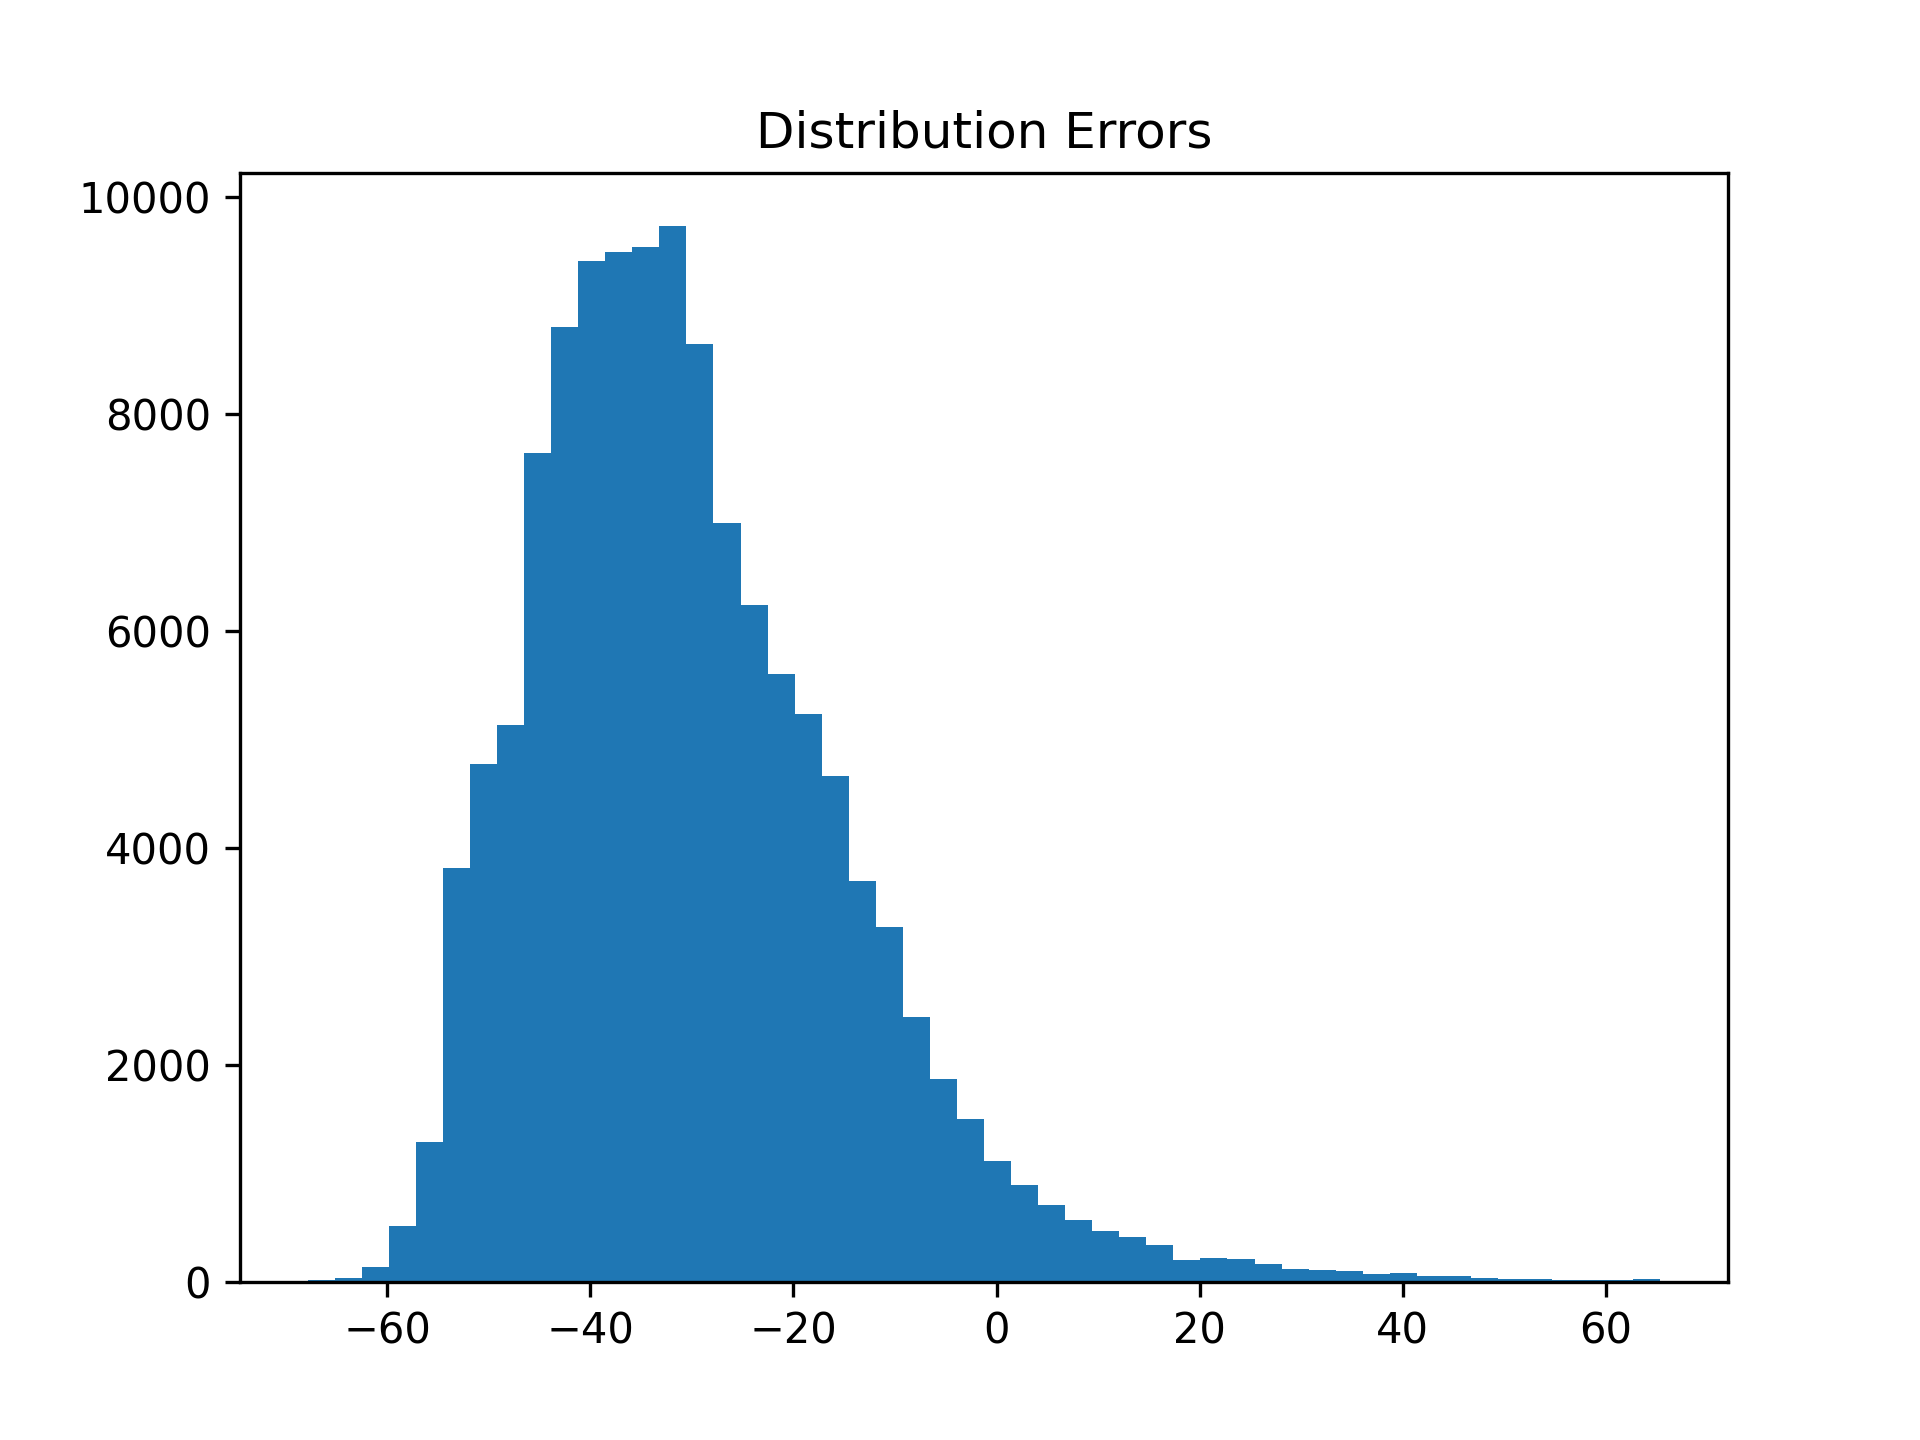
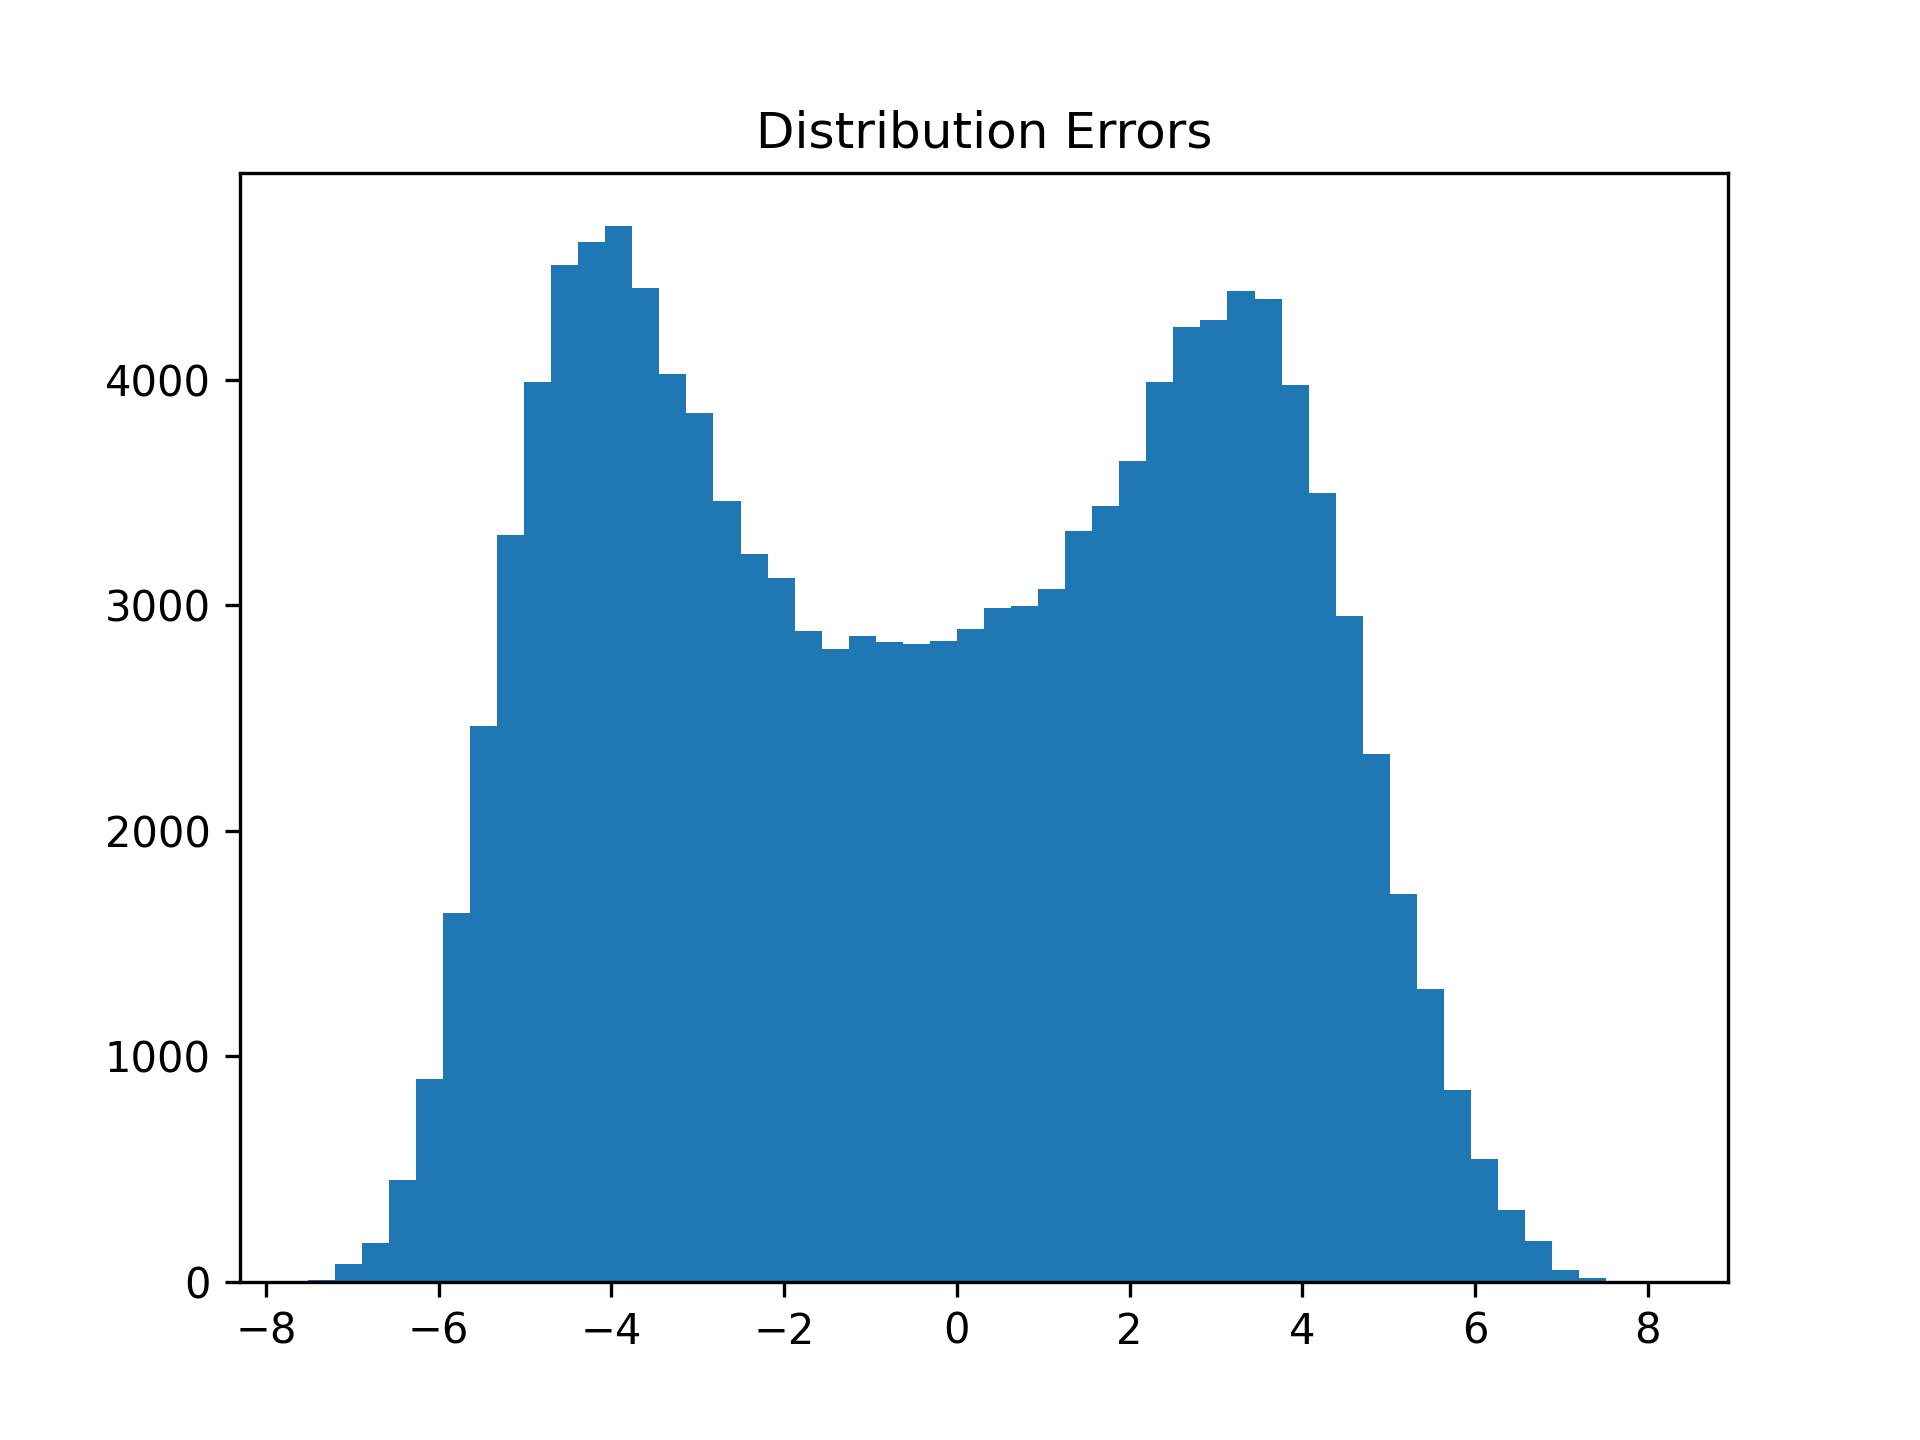
Uppdated preprocessing and train_xgboost

diff --git a/train/train_xgboost.py b/train/train_xgboost.py
@@ -5,8 +5,8 @@ from utils.metrics import rsme_metrics, mae_metrics, r2_score_metrics
 from models.xgboost_model import XGBoostModel
 from utils.visualization import calibration_plot, distribution_errors, scatter_plot
 
+from sklearn.preprocessing import StandardScaler
 import numpy as np
-
 
 DATASET_PATH = "data/"
 
@@ -18,12 +18,8 @@ def create_features(signal, window=20):
     X = []
 
     for i in range(window, len(signal)):
-        row = []
+        row = [signal[i]]
 
-        # current value
-        row.append(signal[i])
-
-        # past values (temporal memory)
         for j in range(1, window + 1):
             row.append(signal[i - j])
 
@@ -32,53 +28,61 @@ def create_features(signal, window=20):
     return np.array(X)
 
 
-# =====================================
-# MAIN TRAINING FUNCTION
-# =====================================
 def run():
     # -----------------------------
-    # LOAD DATA
+    # 🔒 FIX RANDOMNESS
     # -----------------------------
-    dataset = load_data(DATASET_PATH)
+    np.random.seed(42)
 
     # -----------------------------
-    # PREPROCESSING
+    # LOAD + CLEAN
     # -----------------------------
+    dataset = load_data(DATASET_PATH)
     dataset = clean_data(dataset)
     dataset = remove_outliers(dataset)
+
+    print("\nAFTER CLEANING:")
+    print(dataset['PM2.5'].describe())
 
     # -----------------------------
     # ADD DRIFT + NOISE
     # -----------------------------
     dataset['PM2.5_drifted'] = add_noise(dataset['PM2.5'].values)
 
-    # -----------------------------
-    # FEATURES + TARGET
-    # -----------------------------
-    window = 20
     signal = dataset['PM2.5_drifted'].values
 
-    X = create_features(signal, window=window)
-    y = dataset['PM2.5'].values[window:]  # align with lag
+    print("Drifted signal min/max:", signal.min(), signal.max())
 
     # -----------------------------
-    # TRAIN / TEST SPLIT
+    # FEATURES
+    # -----------------------------
+    window = 20
+    X = create_features(signal, window=window)
+    y = dataset['PM2.5'].values[window:]
+
+    # -----------------------------
+    # SPLIT
     # -----------------------------
     split_idx = int(len(X) * 0.8)
-
     X_train, X_test = X[:split_idx], X[split_idx:]
     y_train, y_test = y[:split_idx], y[split_idx:]
 
     # -----------------------------
-    # MODEL TRAINING
+    # SCALING
+    # -----------------------------
+    scaler = StandardScaler()
+    X_train = scaler.fit_transform(X_train)
+    X_test = scaler.transform(X_test)
+
+    # -----------------------------
+    # MODEL
     # -----------------------------
     model = XGBoostModel()
     model.train(X_train, y_train)
 
-    # -----------------------------
-    # PREDICTION
-    # -----------------------------
     y_pred = model.predict(X_test)
+
+    print("Predictions min/max:", y_pred.min(), y_pred.max())
 
     # -----------------------------
     # METRICS
@@ -93,11 +97,14 @@ def run():
     print(f"R2 Score: {r2:.4f}")
 
     # -----------------------------
-    # FIXED VISUALIZATION ALIGNMENT
+    # ALIGNMENT
     # -----------------------------
-    drifted = signal[window:]                  # align with y
-    drifted_test = drifted[split_idx:]         # align with test set
+    drifted = signal[window:]
+    drifted_test = drifted[split_idx:]
 
+    # -----------------------------
+    # VISUALIZATION
+    # -----------------------------
     calibration_plot(
         y_true=y_test,
         y_drifted=drifted_test,
@@ -121,8 +128,12 @@ def run():
     )
 
 
-# =====================================
-# ENTRY POINT
-# =====================================
 if __name__ == "__main__":
     run()
+
+"""
+===== XGBoost Calibration Results =====
+RMSE: 3.0387
+MAE:  2.5761
+R2 Score: 0.9490
+"""

diff --git a/train/train_polynomial.py b/train/train_polynomial.py
@@ -1,56 +1,80 @@
 from utils.dataset import load_data
 from utils.data_preprocess import clean_data, remove_outliers
 from utils.bias import add_noise
-from utils.metrics import rsme_metrics
-from utils.metrics import mae_metrics
-from utils.metrics import r2_score_metrics
+from utils.metrics import rsme_metrics, mae_metrics, r2_score_metrics
 from models.polynomial_model import PolynomialModel
-from utils.visualization import calibration_plot
-from utils.visualization import distribution_errors
-from utils.visualization import scatter_plot
+from utils.visualization import calibration_plot, distribution_errors, scatter_plot
 
 from sklearn.preprocessing import StandardScaler
-
 import numpy as np
 
 DATASET_PATH = "data/"
 
 
 def run():
-    dataset = load_data(DATASET_PATH)
+    # -----------------------------
+    # 🔒 FIX RANDOMNESS
+    # -----------------------------
+    np.random.seed(42)
 
+    # -----------------------------
+    # LOAD + CLEAN
+    # -----------------------------
+    dataset = load_data(DATASET_PATH)
     dataset = clean_data(dataset)
     dataset = remove_outliers(dataset)
 
+    print("\nAFTER CLEANING:")
+    print(dataset['PM2.5'].describe())
+
+    # -----------------------------
+    # ADD DRIFT + NOISE
+    # -----------------------------
     dataset['PM2.5_drifted'] = add_noise(dataset['PM2.5'].values)
 
+    # -----------------------------
+    # FEATURES
+    # -----------------------------
     X = dataset[['PM2.5_drifted']].values
     y = dataset['PM2.5'].values
 
+    # -----------------------------
+    # SPLIT
+    # -----------------------------
     split = int(len(X) * 0.8)
-
     X_train, X_test = X[:split], X[split:]
     y_train, y_test = y[:split], y[split:]
 
+    # -----------------------------
+    # SCALING
+    # -----------------------------
     scaler = StandardScaler()
     X_train = scaler.fit_transform(X_train)
     X_test = scaler.transform(X_test)
 
+    # -----------------------------
+    # MODEL
+    # -----------------------------
     model = PolynomialModel()
     model.train(X_train, y_train)
 
     y_pred = model.predict(X_test)
 
+    # -----------------------------
+    # METRICS
+    # -----------------------------
     rmse = rsme_metrics(y_test, y_pred)
     mae = mae_metrics(y_test, y_pred)
     r2 = r2_score_metrics(y_test, y_pred)
-
 
     print("\n===== Polynomial Calibration Results =====")
     print(f"RMSE: {rmse:.4f}")
     print(f"MAE:  {mae:.4f}")
     print(f"R2 Score: {r2:.4f}")
 
+    # -----------------------------
+    # VISUALIZATION
+    # -----------------------------
     calibration_plot(
         y_true=y_test,
         y_drifted=X_test.flatten(),
@@ -76,11 +100,3 @@ def run():
 
 if __name__ == "__main__":
     run()
-
-
-"""
-===== Polynomial Calibration Results =====
-RMSE: 34.0403
-MAE:  31.2970
-R2 Score: -5.7452
-"""

diff --git a/utils/data_preprocess.py b/utils/data_preprocess.py
@@ -17,7 +17,15 @@ def clean_data(dataset):
 
 
 def remove_outliers(dataset):
-    return dataset[
-        (dataset['PM2.5'] < dataset['PM2.5'].quantile(0.99)) &
-        (dataset['PM10'] < dataset['PM10'].quantile(0.99))
+    # 1. Physical constraints (MOST IMPORTANT)
+    dataset = dataset[
+        (dataset['PM2.5'] >= 0) & (dataset['PM2.5'] <= 200) &
+        (dataset['PM10'] >= 0) & (dataset['PM10'] <= 300)
     ]
+
+    # 2. Optional statistical cleanup
+    dataset = dataset[
+        dataset['PM2.5'] < dataset['PM2.5'].quantile(0.995)
+    ]
+
+    return dataset

diff --git a/utils/bias.py b/utils/bias.py
@@ -3,10 +3,9 @@ import numpy as np
 def add_noise(signal):
     t = np.arange(len(signal))
 
-    # realistic small drift
-    drift = 0.02 * t + 2 * np.sin(t / 50)
+    # 🔥 bounded drift (does NOT explode)
+    drift = 5 * np.sin(t / 200)
 
-    # small noise
     noise = np.random.normal(0, 0.5, len(signal))
 
     return signal + drift + noise
